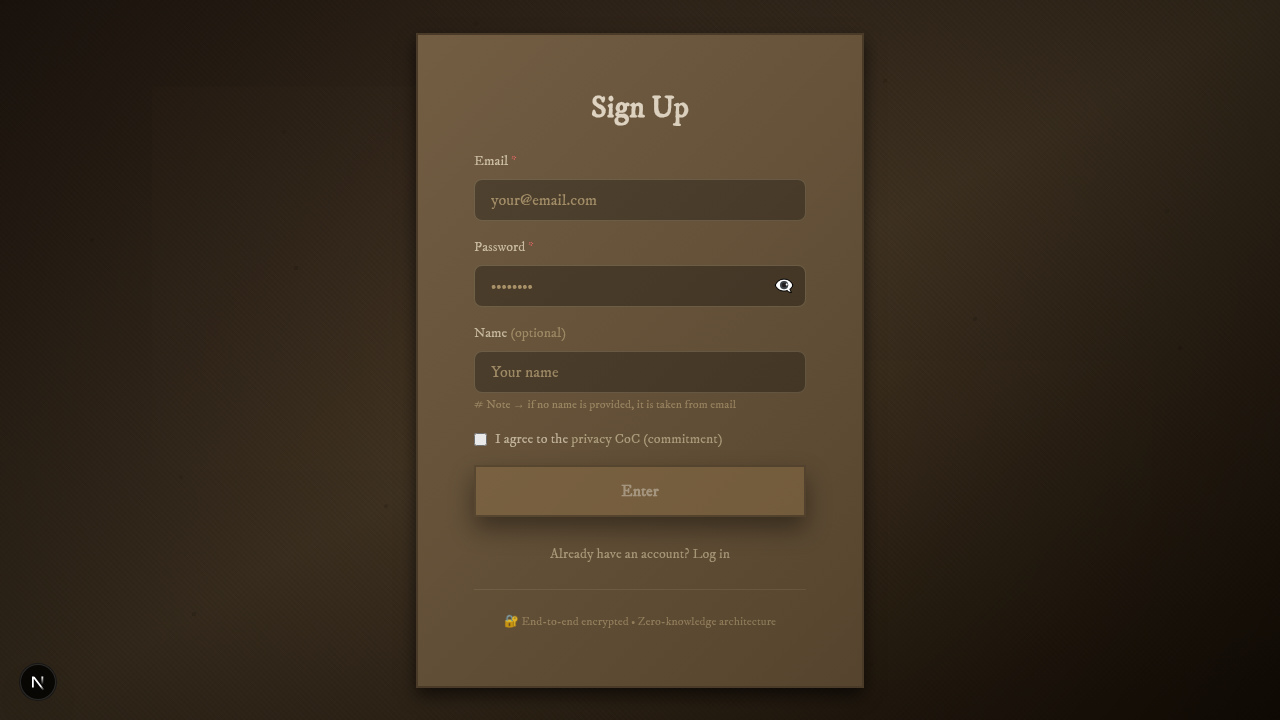
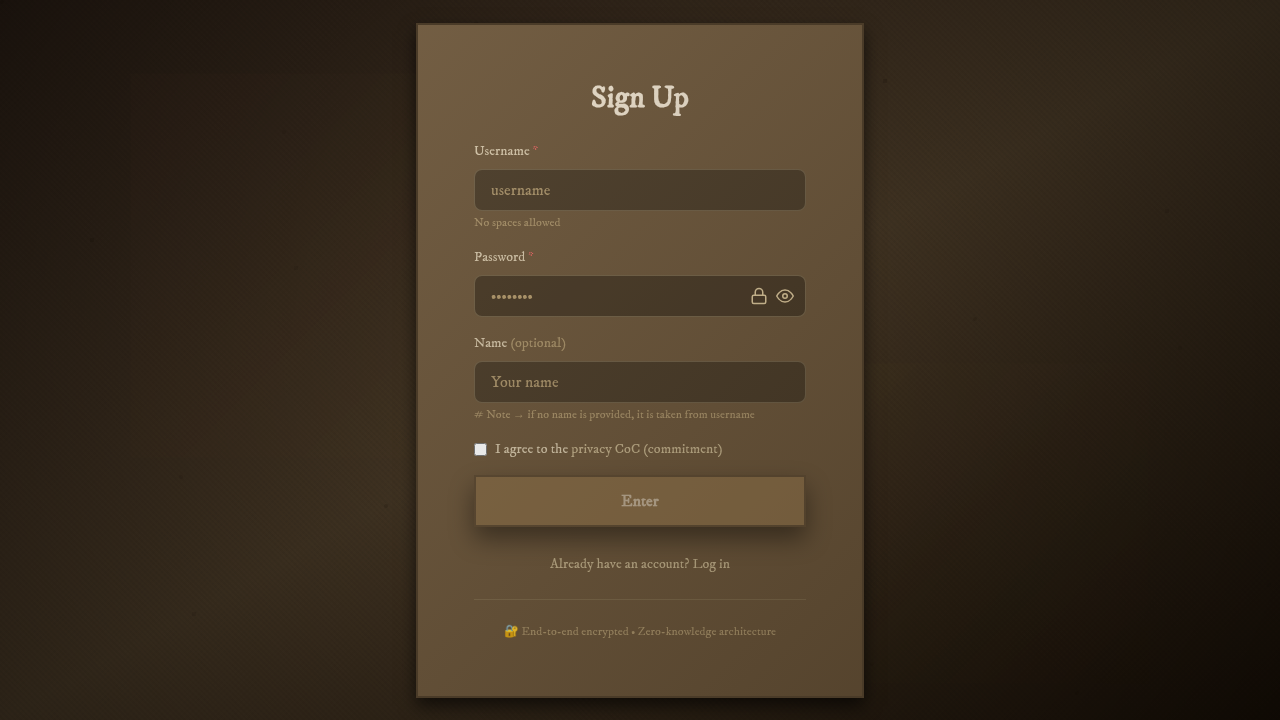
Update website screenshots in assets/example folder

diff --git a/assets/example/README.md b/assets/example/README.md
@@ -1,6 +1,6 @@
-# 4diary Screenshots - Hack This Fall 2025
+# 4diary Screenshots
 
-This directory contains comprehensive screenshots of the 4diary application showcasing its key features and user interface for the Hack This Fall 2025 submission.
+This directory contains comprehensive screenshots of the 4diary application showcasing its key features and user interface.
 
 ## Screenshots
 
@@ -14,31 +14,31 @@ The main landing page featuring:
 ### 02-login-page.png
 Login page showing:
 - Clean authentication interface
-- Email and password input fields
+- Username and password input fields
 - Password visibility toggle button
 - Link to sign-up page
-- Privacy commitment message
+- End-to-end encryption notice
 
 ### 03-signup-page.png
 Sign-up page featuring:
-- User registration form with email, password, and optional name fields
+- User registration form with username, password, and optional name fields
 - Privacy Code of Conduct checkbox agreement
-- Information about default name behavior
+- Password generator option
 - End-to-end encryption notice
 
 ### 04-docs-page.png
 Documentation page interface:
-- Documentation sidebar
-- Main content area
-- Navigation structure
+- Documentation sidebar with collapsible sections
+- Main content area showing Encryption Deep Dive documentation
+- Navigation structure for Advanced, Architecture, Getting Started, and Guides
 
 ### 05-templates-page.png
 Templates showcase displaying:
 - **Journal category**: Daily Note, Journal Entry templates
 - **Work category**: Meeting Notes, Project Plan templates
-- **Productivity category**: Task List template
+- **Productivity category**: Task List, Ideas & Brainstorming templates
+- **Notes category**: Research Notes template
 - Custom template creation option
-- Visual icons for each template type
 
 ### 06-navigation-menu.png
 Mobile/responsive navigation menu showing:
@@ -52,32 +52,39 @@ Mobile/responsive navigation menu showing:
 ### 07-about-page.png
 About page featuring:
 - Project description
-- Mission statement emphasizing privacy, encryption, and open-source values
+- Privacy & Security features
+- Features overview
+- Self-Hosting information
+- Tech Stack details
+- Lead developer information
+- Hack This Fall 2025 badge
 
-### 08-features-section.png
-Detailed view of the features section highlighting:
-- ① AES Encryption - Military-grade security
-- ② Zero-Knowledge - Server never sees your writing
-- ③ Self-Hostable - Run it yourself, own your data
-- ④ FLOSS - Free, open-source, endless freedom
+### 08-settings-page.png
+Settings page displaying:
+- Security settings (E2E encryption, master key storage, zero knowledge)
+- Appearance settings (theme toggle)
+- Export & Backup options
+- Privacy settings (analytics, data collection)
+- Self-hosting instructions with Docker
 
-### 09-password-visibility-feature.png
-Password visibility toggle feature demonstration:
-- Shows the eye icon button functionality
-- Example of the UI/UX attention to detail
-- Password field with toggle in active state
+### 09-404-page.png
+Custom 404 Not Found page showing:
+- Leather-themed error page
+- Navigation options to workspace and home
+- Quick links to templates, docs, and settings
+- Easter egg hint (press SPACE for a game)
 
 ## Technical Details
 
-All screenshots were captured from a local deployment of 4diary running on:
-- Next.js development server (localhost:3000)
-- Connected to production MongoDB database
+All screenshots were captured from a production deployment of 4diary running on:
+- Next.js production server (localhost:3000)
+- Connected to MongoDB database
 - Full page screenshots showing responsive design
 - PNG format for high quality preservation
 
 ## Purpose
 
-These screenshots serve as visual documentation for the Hack This Fall 2025 submission, demonstrating:
+These screenshots serve as visual documentation demonstrating:
 - User interface design and UX
 - Core features and functionality
 - Privacy-focused architecture
